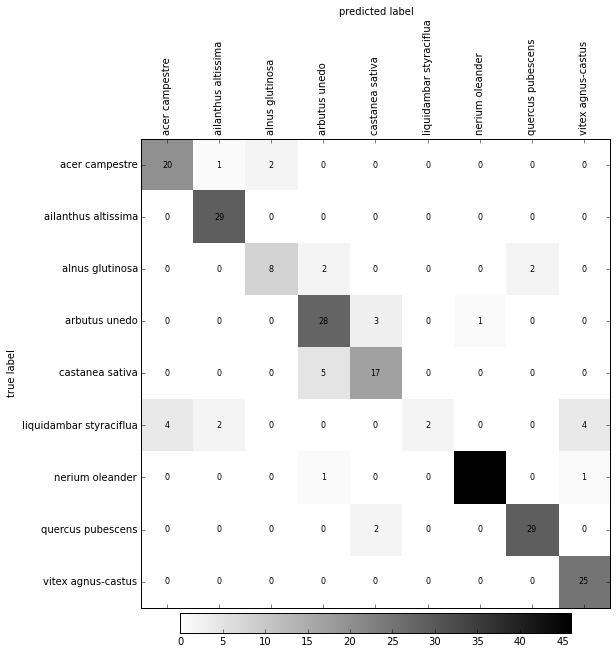
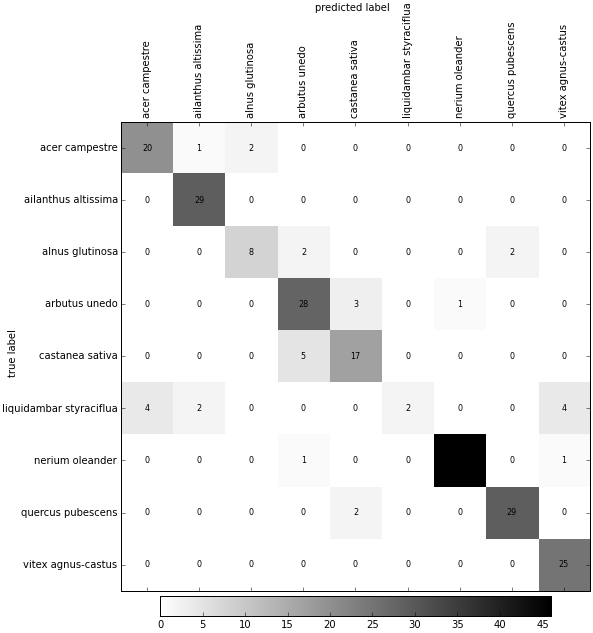
add results of KNN part

diff --git a/report/chapter/labo1.tex b/report/chapter/labo1.tex
@@ -39,9 +39,61 @@ Il faut à présent utiliser les caractéristiques pour entraîner et évaluer u
 
 \lstinputlisting{code/knn.py}
 
+Dans ce code, nous avons défini que 40\% des données allaient servir de données de test. Et nous avons instancié le classifieur KNN à K = 3. Nous pouvons changer la valeur de K pour voir si nous obtenons de meilleurs résultats. Nous avons testé avec les 1, 2, 3, 5 et 10 plus proches voisins et avons trouvé les valeurs qui se trouvent dans la table \ref{valuestabforKNN}.
 
+\begin{table}[h]
+  \centering
+  \footnotesize
+  \begin{tabular}{|c|c|c|c|}  
+    \hline
+    K & precision & recall & f1-score \\
+    \hline
+    1 & 0.86 & 0.86 & 0.86 \\
+    2 & 0.84 & 0.84 & 0.83 \\
+    3 & 0.87 & 0.87 & 0.86 \\
+    \rowcolor{very-light-gray}
+    5 & 0.88 & 0.87 & 0.86 \\
+    10 & 0.82 & 0.86 & 0.84 \\
+    \hline
+  \end{tabular}
+  \label{valuestabforKNN}
+  \caption{Résultats pour différentes valeurs de K}
+\end{table}
 
-Dans ce code, nous avons défini que 40\% des données allaient servir de données de test. Et nous avons instancié le classifieur KNN à K = 3. Nous pouvons changer la valeur de K pour voir si nous obtenons de meilleurs résultats.
+La ligne grise montre que la version 5NN est la meilleure dans les trois catégories \texttt{precision}, \texttt{recall (sensibility)} et \texttt{f1-score}. Voici donc les résultats complets que l'on a trouvé avec 5NN. La figure \ref{5nnconfusionmatrix} montre la matrice de confusion et la table \ref{5nnclassificationreport} montre le rapport de classification complet.
+
+\begin{figure}[h]
+  \centering
+    \includegraphics[width=0.6\linewidth]{img/5NN.png}
+  \caption{Matrice de confusion pour 5NN}
+  \label{5nnconfusionmatrix}
+\end{figure}
+
+\begin{table}[h]
+  \centering
+  \footnotesize
+  \begin{tabular}{|r|r|r|r|r|}  
+    \hline
+    type & precision & recall & f1-score & support\\
+    \hline
+    acer campestre & 0.83 & 0.87 & 0.85 & 23\\
+    ailanthus altissima & 0.91 & 1.00 & 0.95 & 29\\
+    alnus glutinosa & 0.80 & 0.67 & 0.73 & 12\\
+    arbutus unedo & 0.78 & 0.88 & 0.82 & 32\\
+    castanea sativa & 0.77 & 0.77 & 0.77 & 22\\
+    liquidambar styraciflua & 1.00 & 0.17 & 0.29 & 12\\
+    nerium oleander & 0.98 & 0.96 & 0.97 & 48\\
+    quercus pubescens & 0.94 & 0.94 & 0.94 & 31\\
+    vitex agnus-castus & 0.83 & 1.00 & 0.91 & 25\\
+    \hline
+    avg / total & 0.88 & 0.87 & 0.86 & 234\\
+    \hline
+  \end{tabular}
+  \label{5nnclassificationreport}
+  \caption{Rapport de classification pour 5NN}
+\end{table}
+
+\newpage
 
 
 % Code integration example

diff --git a/report/code/knn.py b/report/code/knn.py
@@ -31,15 +31,8 @@ target = target.reshape(-1,1) # transform to colummn vector
 # split datas to train and test
 X_train, X_test, y_train, y_test = cross_validation.train_test_split(data, target, test_size=0.4, random_state=0)
 
-#print 'data : ', data.shape
-#print 'train : ', X_train.shape, y_train.shape
-#print 'target : ', target.shape
-#print 'test : ', X_test.shape, y_test.shape
-
 # normalizing the datas
 #  --> useless in our case (all values are already between 0 and 1)
-#min_max_scaler = preprocessing.MinMaxScaler()
-#X_train_minmax = min_max_scaler.fit_transform(X_train)
 
 # building the classifier and train the dataset 
 knn = KNeighborsClassifier(n_neighbors=3)

diff --git a/report/report.tex b/report/report.tex
@@ -12,7 +12,9 @@
 \usepackage{titlepic}
 %\usepackage{hyperref}
 %\usepackage{url}
+\usepackage[table]{xcolor}
 \definecolor{light-gray}{gray}{0.50}
+\definecolor{very-light-gray}{gray}{0.9}
 
 \usepackage{listings}
 \lstset{language=python, 
